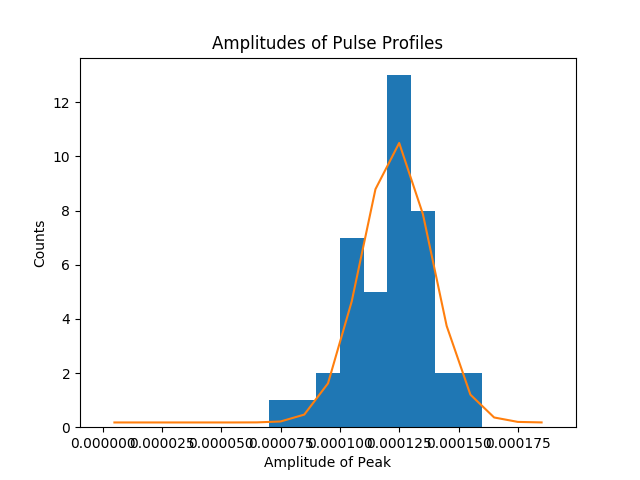
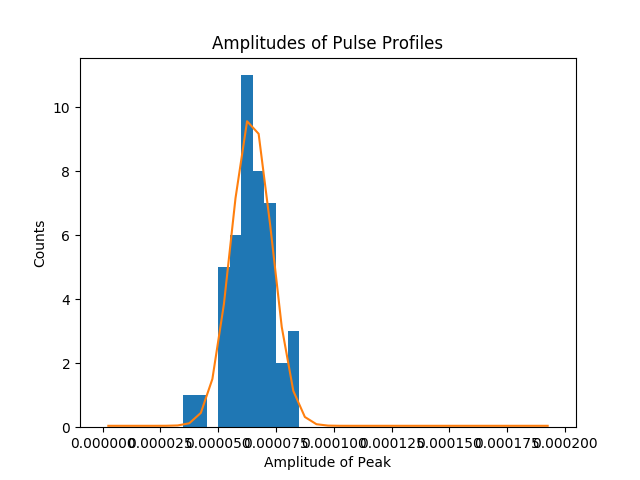
updated for error bars and shift

diff --git a/PulseCharacteristics/ampfit.py b/PulseCharacteristics/ampfit.py
@@ -89,10 +89,20 @@ def fit(pulsarname, timewidth):
  
         # Makes a line plot from the histogram
         phase = np.array(phases[n])  # uses pulse phases in nth profile
-        for i in phase:
-            if (i<0.5):
-                del(i)
-        yvals, xlims = np.histogram(phase,bins=255) # finds heights and sides of each bin, no plot
+        binnumber = 255
+        if (pulsarname == '1821'):
+            for i in range(len(phase)):
+                if (phase[i] < 0.5):
+                    phase[i] = 0
+            phase = [x for x in phase if x!= 0]
+            bins = 128
+        if (pulsarname == 'crab'):
+            for i in range(len(phase)):
+                if (phase[i] < 0.5):
+                    phase[i] = 0
+            phase = [x for x in phase if x!= 0]
+            bins = 128
+        yvals, xlims = np.histogram(phase,bins=binnumber) # finds heights and sides of each bin, no plot
         xvals = xlims[:-1] + np.diff(xlims)/2 # finds middle of each bin, to be x values of line plot
 
          # Use convolution to find the estimate for the location of the peak
@@ -160,9 +170,9 @@ def fit(pulsarname, timewidth):
     plt.plot(xvals, gauss(xvals,*popt))
     errorbar = np.absolute(pcov[2][2])**0.5
 
-    plt.xlabel('Amplitude of Peak')
+    plt.xlabel('Integrated Intensity')
     plt.ylabel('Counts')
-    plt.title('Amplitudes of Pulse Profiles')
+    plt.title('Integrated Intensities of Pulse Profiles')
     f = open("amphistdata.txt", "a")
     print("standard deviation1 = ", sd, file=f)
     print("standard deviation2 = ", popt[2], file=f)
@@ -180,10 +190,10 @@ width = []
 width2 = []
 errorbars = []
 timewidth=[]
-for twidth in range(60, 210, 30):
-   # if (twidth == 1800):
-    #    twidth = 2100
-    w, w2, e = fit('crab', twidth)
+for twidth in range(1800, 9000, 900):
+    if (twidth == 1800):
+        twidth = 2100
+    w, w2, e = fit('1937', twidth)
     width.append(w)
     width2.append(w2)
     errorbars.append(e)
@@ -205,34 +215,26 @@ if (plottype == 'plot'):
     plt.xlabel("Integration Time (seconds)")
     plt.ylabel("Standard Deviation (counts/second)")
 if (plottype == 'loglog'):
-    plt.loglog(timewidth, width, 'o', color = 'b')
+    plt.plot(np.log10(timewidth), np.log10(width), 'o', color = 'b')
     popt, pcov = curve_fit(power, timewidth, width)
     cslope = popt[1]
     cslopeerror = np.absolute(pcov[1][1])**0.5
-    plt.loglog(timewidth, power(timewidth, *popt), color = 'b', label = 'Calculated')
-    plt.loglog(timewidth, width2, 'o', color = 'g')
+    plt.plot(np.log10(timewidth), np.log10(power(timewidth, *popt)), color = 'b', label = 'Calculated')
+  #  plt.plot(np.log10(timewidth), np.log10(width2), 'o', color = 'g')
     popt, pcov = curve_fit(power, timewidth, width2)
     fslope = popt[1]
     fslopeerror = np.absolute(pcov[1][1])**0.5
-    plt.loglog(timewidth, power(timewidth, *popt), color = 'g', label = 'Fitted')
-  #  n = []
-  #  for i in y:
-  #      n.append(i- 0.0215)
-    plt.loglog(timewidth, y, '--', label = 'Constant')
-  #  print(width2)
-  #  print(errorbars)
+    plt.plot(np.log10(timewidth), np.log10(power(timewidth, *popt)), color = 'g', label = 'Fitted')
+    plt.plot(np.log10(timewidth), np.log10(y)-2.7, '--', label = 'Constant')
     lowererror = []
     uppererror = []
     for x in range(len(errorbars)):
-        uppererror.append(np.log10(width2[x]-errorbars[x])-np.log10(width2[x]))
-        lowererror.append(np.log10(width2[x]+errorbars[x])-np.log10(width2[x]))
-  #  loglogerrors =  [lowererror, uppererror]
-  #  loglogerror = np.array(loglogerrors)
-  #  print(loglogerrors)
-  #  print(loglogerror)
-  #  plt.errorbar(np.log10(timewidth),np.log10(width2), yerr = loglogerror , fmt = 'o', color = 'g')
+        lowererror.append(abs(np.log10(width2[x]-errorbars[x])-np.log10(width2[x])))
+        uppererror.append(np.log10(width2[x]+errorbars[x])-np.log10(width2[x]))
+    loglogerrors =  [lowererror, uppererror]
+    loglogerror = np.array(loglogerrors)
+    plt.errorbar(np.log10(timewidth),np.log10(width2), yerr = loglogerror , fmt = 'o', color = 'g')
     plt.title("Widths of Integrated Intensity Distribution vs Integration Time")
-  #  plt.title("Widths of Amplitude Distribution vs Integration Time")
     plt.legend()
     plt.xlabel("log(Integration Time (seconds))")
     plt.ylabel("log(Standard Deviation (counts/second))")

diff --git a/PulseCharacteristics/fitallgtiplots1821.py b/PulseCharacteristics/fitallgtiplots1821.py
@@ -70,10 +70,10 @@ def main():
         rows = np.where((tab['TIME'] >= starttimes[i]) & (tab['TIME'] <= endtimes[i]))
         phase = tab['PULSE_PHASE'][rows[0]]
         phase = list(phase)
-        for i in range(len(phase)):
-            if (phase[i] < 0.5):
-                phase[i] = 0
-        phase = [x for x in phase if x!= 0]
+     #   for i in range(len(phase)):
+     #       if (phase[i] < 0.5):
+     #           phase[i] = 0
+     #   phase = [x for x in phase if x!= 0]
         phases.append(phase)
 
     sections = len(phases)
@@ -92,8 +92,11 @@ def main():
  
         # Makes a line plot from the histogram
         phase = np.array(phases[n])  # uses pulse phases in nth profile
-       # phase = [x for x in phase if x >= 0.5] 
-        yvals, xlims = np.histogram(phase,bins=255) # finds heights and sides of each bin, no plot
+        for i in range(len(phase)):
+            if (phase[i] < 0.5):
+                phase[i] = 0
+        phase = [x for x in phase if x!= 0]
+        yvals, xlims = np.histogram(phase,bins=128) # finds heights and sides of each bin, no plot
         xvals = xlims[:-1] + np.diff(xlims)/2 # finds middle of each bin, to be x values of line plot
         # Use convolution to find the estimate for the location of the peak
         width=0.05
@@ -106,7 +109,7 @@ def main():
         maxloc = xvals[convo.index(m)]  # finds the location of the peak of convolution
 
         # Does a gaussian curve fit to the histogram
-        popt, pcov = curve_fit(gauss, xvals, yvals, p0= [max(yvals),maxloc,0.05, min(yvals)+20]) # uses gaussian function to do a curve fit to the line version fo the histogram 
+        popt, pcov = curve_fit(gauss, xvals, yvals, p0= [max(yvals),maxloc,0.05, min(yvals)]) # uses gaussian function to do a curve fit to the line version fo the histogram 
         if ((popt[1] >= 0.7)&(popt[1]<= 0.85)):
             xvalues.append(xvals)
             curves.append(popt)
